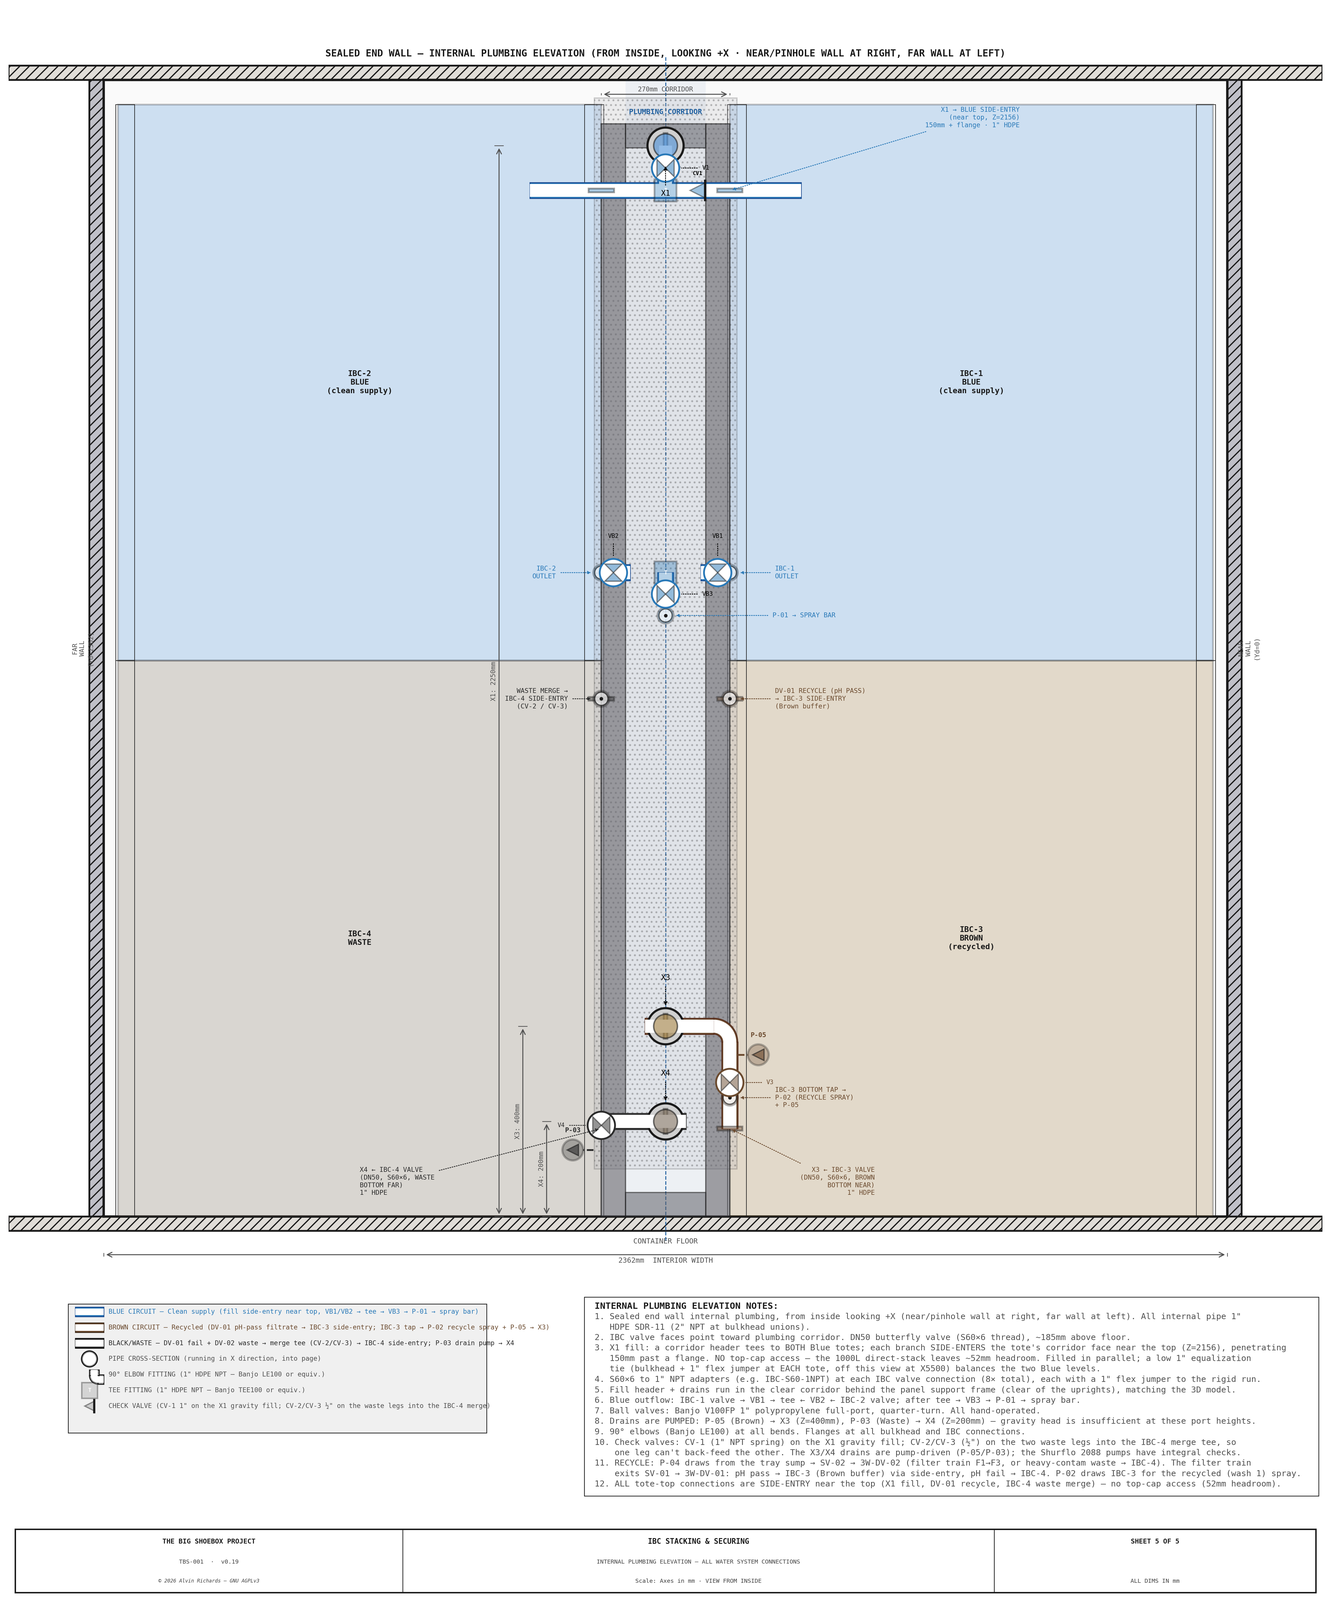
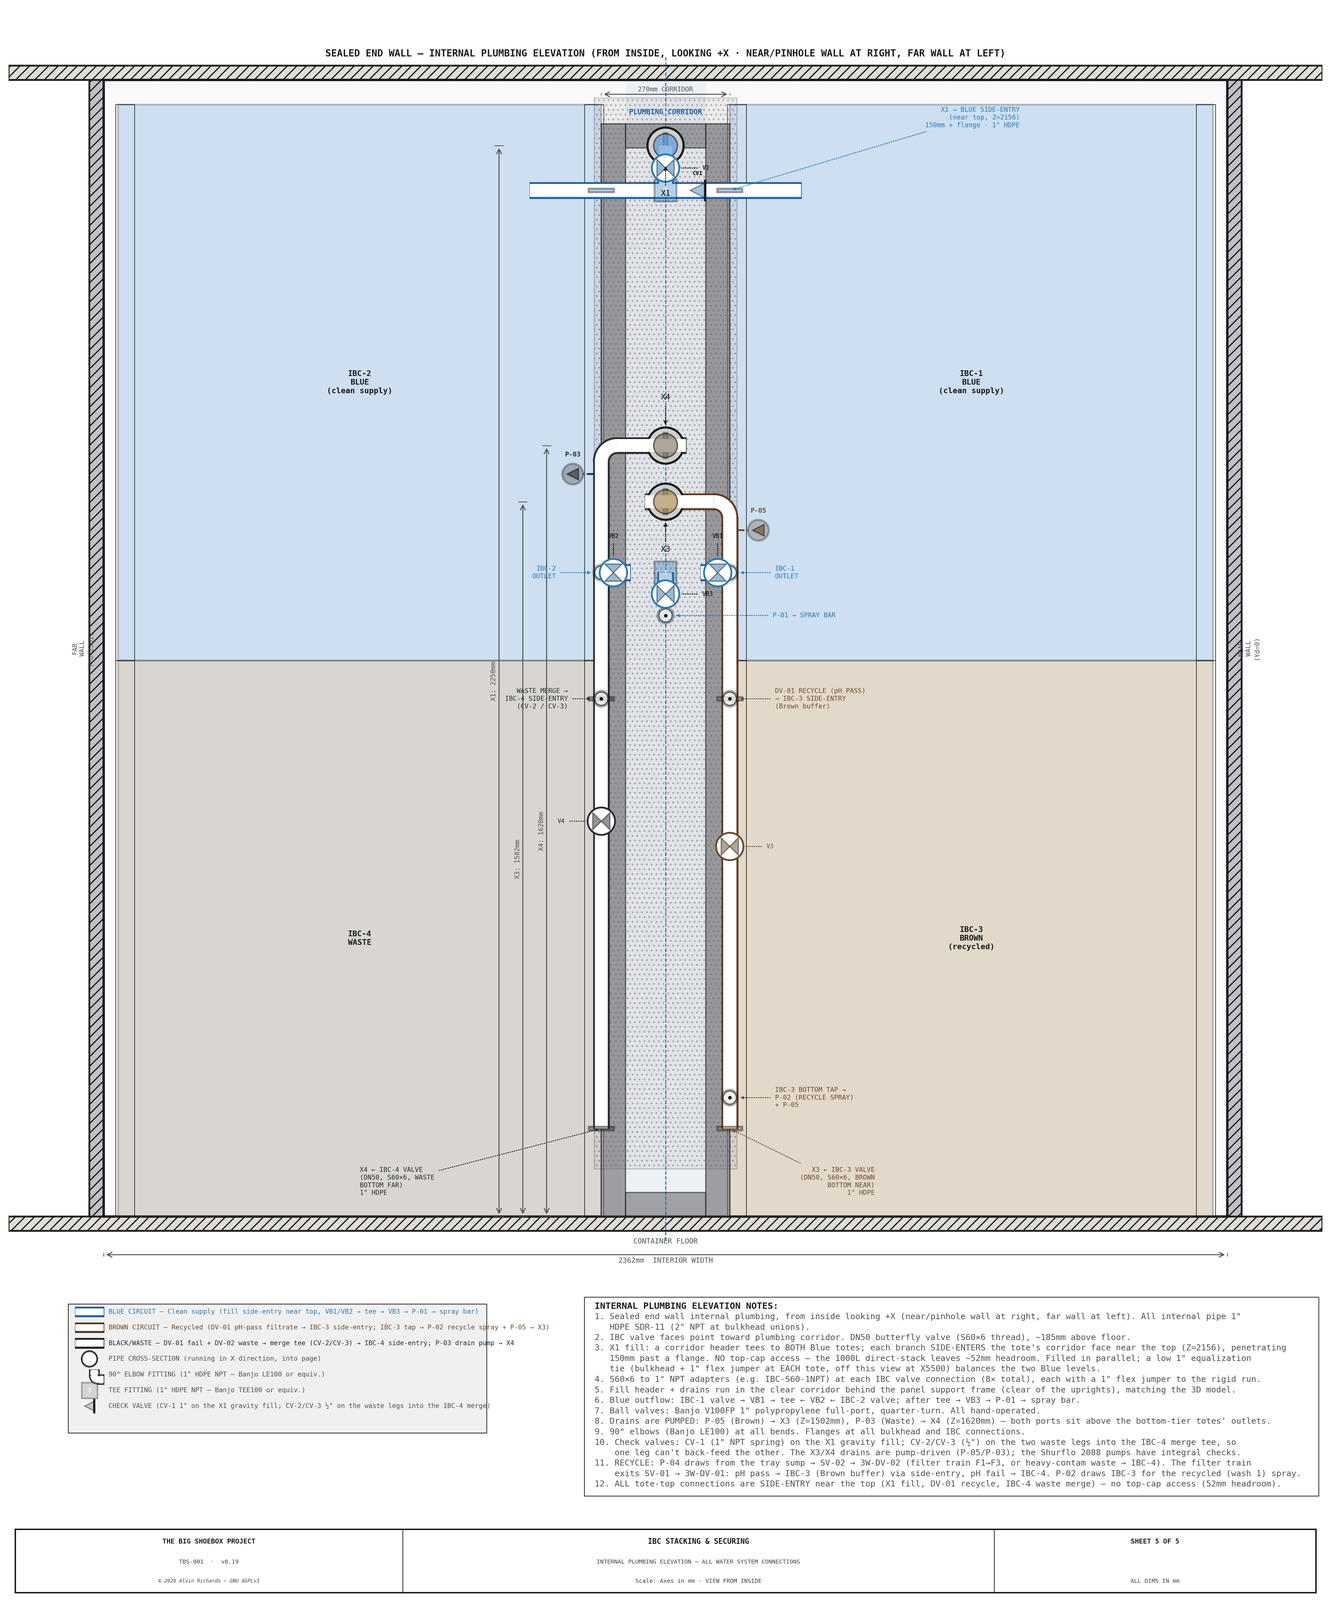
End-wall port heights single-sourced: EXT_DRAIN_3_H/4_H = Z1502/Z1620 (was a stale Z400/Z200); corridor model builds X1/X3/X4 from them; IBC-stacking sheets 3-5 redrawn

Changed region(s): [[0.4056, 0.2498, 0.5929, 0.7182]]

diff --git a/src/generators/generate_ibc_stacking_diagram.py b/src/generators/generate_ibc_stacking_diagram.py
@@ -400,9 +400,7 @@ def sheet2():
 #
 # View from outside the container, looking at the sealed end wall.
 # Shows 3 ports stacked vertically on the container centerline:
-#   Top:    Fill Blue IBC-1 (2250mm)
-#           Drain Brown IBC-3 (400mm)
-#   Bottom: Drain Waste IBC-4 (200mm)
+#   Fill Blue IBC-1 (EXT_FILL_1_H), Drain Waste IBC-4 (EXT_DRAIN_4_H), Drain Brown IBC-3 (EXT_DRAIN_3_H)
 # Reinforcing plate behind ports, camlock fittings, height dimensions.
 # ═══════════════════════════════════════════════════════════════════════════════
 def sheet3():
@@ -956,7 +954,7 @@ def sheet4():
     far_tote_c  = IBC_FAR_Y + IBC_D / 2        # 1824 — tote center (fill drop)
 
     # ── X4: IBC-4 (far, Waste) → bulkhead (lowest, drawn first) ───────────
-    # X4 (Z=200) is the lowest pipe. Drawn first so X3 covers it in corridor.
+    # X4 drawn first so X3 covers it in the corridor.
     draw_pipe_path(ax,
                    [drain_x, drain_x, bh_x],
                    [far_ibc_conn_yd, panel_yd, panel_yd],
@@ -970,7 +968,7 @@ def sheet4():
            "X4 ← IBC-4\n(DRAIN, WASTE)\n1\" HDPE",
            fs=5.5, color=C_PIPE_BLACK, ha="right", font=FONT)
     # ── X3: IBC-3 (near, Brown) → bulkhead (above X4) ──────────────────────
-    # X3 (Z=400) sits above X4 (Z=200). Covers X4 in the corridor run.
+    # X3 covers X4 in the corridor run.
     draw_pipe_path(ax,
                    [drain_x, drain_x, bh_x],
                    [near_ibc_conn_yd, panel_yd, panel_yd],
@@ -1361,10 +1359,10 @@ def sheet5():
     bh_outer_r = 38   # camlock/union outer visual radius
 
     # tdir = leader direction for the tag: +1 above the circle, -1 below.
-    # X1 routes DOWN (the "PLUMBING CORRIDOR" label sits just above it); X3/X4 route up.
+    # X1 routes DOWN (the "PLUMBING CORRIDOR" label sits just above it); X3 (under X4) down, X4 up.
     ports = [
         ("X1", EXT_FILL_1_H, C_BLUE_IBC,   "FILL → IBC-1 (BLUE, TOP NEAR)", -1),
-        ("X3", EXT_DRAIN_3_H, C_BROWN_IBC, "DRAIN ← IBC-3 (BROWN, BOTTOM NEAR)", +1),
+        ("X3", EXT_DRAIN_3_H, C_BROWN_IBC, "DRAIN ← IBC-3 (BROWN, BOTTOM NEAR)", -1 if EXT_DRAIN_3_H < EXT_DRAIN_4_H else +1),
         ("X4", EXT_DRAIN_4_H, C_WASTE_IBC, "DRAIN ← IBC-4 (WASTE, BOTTOM FAR)", +1),
     ]
 
@@ -1459,8 +1457,7 @@ def sheet5():
             color=C_PIPE_BROWN, lw=1.5, ls="--", zorder=7)
 
     # ── X4: IBC-4 (far, bottom) → Bulkhead — WASTE drain ────────────────────
-    # NOTE: X4 at Z=200mm limits gravity drain — P-03 waste pump evacuates
-    # the residual ~120L below X4 height.
+    # X4 sits above the IBC-4 outlet, so P-03 pumps the whole drain.
     d4_yd = far_col_l  # corridor-facing edge of far IBC
     # L-shaped path: vertical rise → 90° elbow → horizontal to bulkhead
     draw_pipe_path(ax,
@@ -1694,7 +1691,7 @@ def sheet5():
         "5. Fill header + drains run in the clear corridor behind the panel support frame (clear of the uprights), matching the 3D model.",
         "6. Blue outflow: IBC-1 valve → VB1 → tee ← VB2 ← IBC-2 valve; after tee → VB3 → P-01 → spray bar.",
         "7. Ball valves: Banjo V100FP 1\" polypropylene full-port, quarter-turn. All hand-operated.",
-        "8. Drains are PUMPED: P-05 (Brown) → X3 (Z=400mm), P-03 (Waste) → X4 (Z=200mm) — gravity head is insufficient at these port heights.",
+        f"8. Drains are PUMPED: P-05 (Brown) → X3 (Z={EXT_DRAIN_3_H}mm), P-03 (Waste) → X4 (Z={EXT_DRAIN_4_H}mm) — both ports sit above the bottom-tier totes' outlets.",
         "9. 90° elbows (Banjo LE100) at all bends. Flanges at all bulkhead and IBC connections.",
         "10. Check valves: CV-1 (1\" NPT spring) on the X1 gravity fill; CV-2/CV-3 (½\") on the two waste legs into the IBC-4 merge tee, so",
         "    one leg can't back-feed the other. The X3/X4 drains are pump-driven (P-05/P-03); the Shurflo 2088 pumps have integral checks.",

diff --git a/src/models/generate_corridor_water_panel.py b/src/models/generate_corridor_water_panel.py
@@ -18,7 +18,7 @@ sys.path.insert(0, _HERE)
 import generate_sketchup_model as ov
 import generate_ibc_model as ib                 # owns ibc_stack() (Phase 1)
 import tbs_draw as draw                          # shared drawing/material primitives
-from tbs_constants import PUMP_YD_SPAN
+from tbs_constants import PUMP_YD_SPAN, EXT_FILL_1_H, EXT_DRAIN_3_H, EXT_DRAIN_4_H
 
 # ── deep-box frame geometry (from the fork; one source) ──
 S       = ov.IBC_FRAME_RHS               # 50.8×50.8 RHS (2×2×0.120in)
@@ -347,7 +347,7 @@ def tote_restraint():
 # generator derives the same piece sizes (single source; it can't drift from this model).
 SHIRT_Z0    = 325    # pump-shirt bottom Z (raised to clear the brown P-05 inlet elbow at z298-318)
 SPINE_Z0    = 280    # drain-riser spine bottom Z (clears the low waste pickup z247-268)
-X1_TEE_X, X1_TEE_Z = 5500, 2250                     # X1 fill tee — ON the spine top, centered in its thickness (X1_TEE_Y below)
+X1_TEE_X, X1_TEE_Z = 5500, EXT_FILL_1_H                    # X1 fill tee — ON the spine top, centered in its thickness (X1_TEE_Y below)
 SPINE_Z1    = X1_TEE_Z - ov.PUMP_PIPE_OD / 2       # 2239.5 — drain-riser spine top: the X1 fill run + tee REST on its top edge
 SPINE_X_END = 5780   # drain-riser spine far X — extended ~220mm toward the sealed end wall (X5893) so the two end-wall port runs (P-05→X3, P-03→X4) + their X5763 drops get a ply clip surface; still clears the wall
 X3_CROSS_X = SPINE_X_END - 100   # P-05→X3 crosses the spine here (100mm in from its X-edge), then runs the near-face clip lane to X3
@@ -1197,7 +1197,9 @@ def drains_ports(sump_on_skid=False):
          draw.C_IBC_BROWN)
     port_jumper(p, "P-05 suction jumper", [p5i, (PXC, BV02_YD, z05), (rx, BV02_YD, z05), (rx, BV02_YD, zloop)])
     p.append(ball_valve("BV-02 (P-05 suction)", rx, BV02_YD, z05 - 85, "z", hdir="+y", rot_deg=45))   # whole valve rotated 45° so the handle swings into the corridor on the −X+Yd diagonal, matching BV-01/BV-03/BV-06
-    p.append(draw.ruby_cylinder("X3 Brown drain port (end wall)", ew - 60, SPINE_RISER_YD, p5o[2], 22, 60, color=draw.C_STEEL, axis="x"))
+    if abs(p5o[2] - EXT_DRAIN_3_H) > 0.5:
+        raise ValueError(f"X3 port Z{EXT_DRAIN_3_H} must equal the P-05 discharge Z{p5o[2]} (the X3 run is straight)")
+    p.append(draw.ruby_cylinder("X3 Brown drain port (end wall)", ew - 60, SPINE_RISER_YD, EXT_DRAIN_3_H, 22, 60, color=draw.C_STEEL, axis="x"))
     # P-05 OUT → +Yd stub → step onto a clear back lane (between the spine +Yd face 1224 and the far
     # upright 1266; +Yd of the pump body 1231) — the −Yd step is done in the OPEN −X of the shirt, NOT in
     # the chase — then STRAIGHT +X through the shirt + panel (round holes) and behind the panel all the way
@@ -1235,9 +1237,9 @@ def drains_ports(sump_on_skid=False):
                     (PXC, BV02_YD, z03), p3i])                      # −X + short +Yd stub into the IN port
     port_jumper(p, "P-03 suction jumper", [p3i, (PXC, BV02_YD, z03), (rx6, BV02_YD, z03), (rx6, BV02_YD, turn6)])
     p.append(ball_valve("BV-06 (P-03 suction)", rx6, BV02_YD, z03 - 110, "z", hdir="+y", rot_deg=45))   # whole valve rotated 45° so the handle swings into the corridor on the −X+Yd diagonal, matching BV-01/BV-03
-    p.append(draw.ruby_cylinder("X4 Waste drain port (end wall)", ew - 60, COL_R, 1620, 22, 60, color=draw.C_STEEL, axis="x"))
+    p.append(draw.ruby_cylinder("X4 Waste drain port (end wall)", ew - 60, COL_R, EXT_DRAIN_4_H, 22, 60, color=draw.C_STEEL, axis="x"))
     _p03 = [p3o, (PXC, PORT_TURN_YD_OUT, p3o[2]), (5090, PORT_TURN_YD_OUT, p3o[2]), (5090, COL_R, p3o[2]),
-            (ew - 130, COL_R, p3o[2]), (ew - 130, COL_R, 1620), (ew - 60, COL_R, 1620)]
+            (ew - 130, COL_R, p3o[2]), (ew - 130, COL_R, EXT_DRAIN_4_H), (ew - 60, COL_R, EXT_DRAIN_4_H)]
     pipe("P-03 -> X4 end-wall port", _p03, draw.C_PIPE_WASTE)   # OUT turns one elbow out of the port
     port_jumper(p, "P-03 discharge jumper", _p03)
     return "\n".join(p)

diff --git a/src/generators/tbs_constants.py b/src/generators/tbs_constants.py
@@ -1435,8 +1435,8 @@ SPRAY_BAR_SLIT_W     = 30          # walkway slit width for pole passage (mm)
 # X1 fill tees internally to BOTH Blue totes (parallel fill, no X2 port, no cross-connect)
 EXT_PANEL_YD = C_WID // 2   # = 1181mm — panel centered on container width
 EXT_FILL_1_H = 2250    # X1: Blue fill port height (mm) — feeds the Blue side-entry T near the top of both top-tier totes (~Z2150), gravity feed; gravity-linked across the corridor
-EXT_DRAIN_3_H = 400    # X3: drain Brown IBC-3 port height (mm) — bottom tier near
-EXT_DRAIN_4_H = 200    # X4: drain Waste IBC-4 port height (mm) — bottom tier far
+EXT_DRAIN_3_H = 1502   # X3: Brown drain port height (mm) — P-05 discharge level; the run goes straight out along the spine near face to the wall
+EXT_DRAIN_4_H = 1620   # X4: Waste drain port height (mm) — P-03 discharge drops to it at the end wall, on the spine far face
 # Legacy aliases for downstream code
 EXT_FILL_H   = EXT_FILL_1_H
 EXT_FILL_YD  = EXT_PANEL_YD

diff --git a/RELEASE.md b/RELEASE.md
@@ -26,7 +26,7 @@ is no separate publish step to run afterward.
 
 ## [Unreleased]
 
-- **2D water sheets brought back to the 3D.** ibc-stacking Sheet 5 drew the retired routing (filter return into IBC-2); it now shows DV-01 recycle → IBC-3 on a pH pass and the waste merge into IBC-4 through CV-2/CV-3, with the legend and notes rewritten. Sheet 4 no longer lists P-04 as a corridor pump. water-system Sheet 1 labels the 1" equalization tie and shows its flex jumpers. On the pinhole-wall elevation, P-04's ports are drawn to the datasheet reach and its suction enters at port height. The SV-02 marker now sits on its pipe: `PWP_SV02_Z` was the valve's base while both sheets read it as the center, so it is now the true center and the 3D derives the base from it (same geometry). The bridge-arc crossing is replaced by the skill's flush break. Labels are at the 4.0 legibility floor and moved off the pipes they named. The 3D F1 label read "50um"; it is a 5-micron cartridge. Walkway E-E listed IBC-3 → P-02 three times because its capture saw runs the builder constructs and then drops; it now keeps only runs that reach the model. Its tags no longer hide under the pipes. The four panel sheets (corridor front elevation, spine views A/B, pinhole panel) now take their routes, valve centers, clips and flex jumpers from an in-process build of water.skp, so they can't drift from the model. The spine views drop the retired DV-01 Blue-recycle riser, show X1 as a tee, and add CV-2/CV-3. The pinhole panel draws the extended board's low runs, clips and corner notches. Electrical Sheet 4's pump boxes use the datasheet envelope. Two 3D fixes came out of the 2D pass: the X4 waste pickup had a diagonal leg (an 18.5mm Yd jog spread across a 1.4m rise), now squared onto the spine lane; and the ACC-02 → BV-05 hop over the P-04 suction riser is derived from the riser's X (the port change had moved the riser into it). The spine's far (+Yd) face is now an accepted standoff exception (`SPINE_FAR_FLUSH_OK`), no longer pending review: its nine clips (P-05 → X3, P-03 → X4 and the X4 drop) sit on 6.5mm shims because the lane is fixed by the pump-port turn; the plumbing report says so. X3 moved so its line is clamped: after crossing the spine, P-05 → X3 used to drop onto a Yd1109 lane 97mm off the spine with no support. It now turns onto the spine's near-face clip lane (an 18mm block, one new P-clip) and runs straight to the end wall, so X3 sits at Yd1177.5 / Z1502 (was Yd1109 / Z1700), with one riser and two elbows fewer (`X3_CROSS_X`). Spine View A draws the new tail. `check_pipe_supports` now also fails any non-axis-aligned pipe leg (the spray-bar feed hoses and one battery cable are ratcheted as legitimate diagonals). Review fixes: ACC-01 and ACC-02 draw their IN/OUT port stubs so every run lands on a port, P-01 → ACC-01 IN gets its 90° elbow, and the TAP-01 riser elbows into its spout; its isolation valve is labeled BV-04 (BV-06 is the P-03 suction valve) on the elevation and in chemistry-prep-shelves.md. Walkway E-E draws the four pumps and ACC-01 solid, so a unit's suction and discharge runs (opposite-Yd ports on one Z, collapsed by the projection) read as meeting on the unit rather than at a missing elbow.
+- **2D water sheets brought back to the 3D.** ibc-stacking Sheet 5 drew the retired routing (filter return into IBC-2); it now shows DV-01 recycle → IBC-3 on a pH pass and the waste merge into IBC-4 through CV-2/CV-3, with the legend and notes rewritten. Sheet 4 no longer lists P-04 as a corridor pump. water-system Sheet 1 labels the 1" equalization tie and shows its flex jumpers. On the pinhole-wall elevation, P-04's ports are drawn to the datasheet reach and its suction enters at port height. The SV-02 marker now sits on its pipe: `PWP_SV02_Z` was the valve's base while both sheets read it as the center, so it is now the true center and the 3D derives the base from it (same geometry). The bridge-arc crossing is replaced by the skill's flush break. Labels are at the 4.0 legibility floor and moved off the pipes they named. The 3D F1 label read "50um"; it is a 5-micron cartridge. Walkway E-E listed IBC-3 → P-02 three times because its capture saw runs the builder constructs and then drops; it now keeps only runs that reach the model. Its tags no longer hide under the pipes. The four panel sheets (corridor front elevation, spine views A/B, pinhole panel) now take their routes, valve centers, clips and flex jumpers from an in-process build of water.skp, so they can't drift from the model. The spine views drop the retired DV-01 Blue-recycle riser, show X1 as a tee, and add CV-2/CV-3. The pinhole panel draws the extended board's low runs, clips and corner notches. Electrical Sheet 4's pump boxes use the datasheet envelope. Two 3D fixes came out of the 2D pass: the X4 waste pickup had a diagonal leg (an 18.5mm Yd jog spread across a 1.4m rise), now squared onto the spine lane; and the ACC-02 → BV-05 hop over the P-04 suction riser is derived from the riser's X (the port change had moved the riser into it). The spine's far (+Yd) face is now an accepted standoff exception (`SPINE_FAR_FLUSH_OK`), no longer pending review: its nine clips (P-05 → X3, P-03 → X4 and the X4 drop) sit on 6.5mm shims because the lane is fixed by the pump-port turn; the plumbing report says so. X3 moved so its line is clamped: after crossing the spine, P-05 → X3 used to drop onto a Yd1109 lane 97mm off the spine with no support. It now turns onto the spine's near-face clip lane (an 18mm block, one new P-clip) and runs straight to the end wall, so X3 sits at Yd1177.5 / Z1502 (was Yd1109 / Z1700), with one riser and two elbows fewer (`X3_CROSS_X`). Spine View A draws the new tail. The end-wall port heights are now single-sourced: `EXT_DRAIN_3_H` / `EXT_DRAIN_4_H` had stayed at an old Z400 / Z200 the 3D never used, so IBC-stacking Sheets 3–5 drew X3/X4 near the floor. They are now Z1502 / Z1620, and the corridor model builds the X3/X4 (and X1, `EXT_FILL_1_H`) ports from them, refusing an X3 height off the straight P-05 run. `check_pipe_supports` now also fails any non-axis-aligned pipe leg (the spray-bar feed hoses and one battery cable are ratcheted as legitimate diagonals). Review fixes: ACC-01 and ACC-02 draw their IN/OUT port stubs so every run lands on a port, P-01 → ACC-01 IN gets its 90° elbow, and the TAP-01 riser elbows into its spout; its isolation valve is labeled BV-04 (BV-06 is the P-03 suction valve) on the elevation and in chemistry-prep-shelves.md. Walkway E-E draws the four pumps and ACC-01 solid, so a unit's suction and discharge runs (opposite-Yd ports on one Z, collapsed by the projection) read as meeting on the unit rather than at a missing elbow.
 - **Schematics and plans authored in mm.** Water System Sheet 2 (equipment plan) had the container squeezed into a 12×5 canvas with unequal X/Y factors (a ~4% stretch) and labeled with the exterior size; it is now a 1:1 mm plan from the constants, which also corrects TAP-01's position, the corridor panel (now from the 3D rear panel + pump column), the spray bar (single-feed beam), the tray panel size, and adds the pinhole-wall filter skid. The not-to-scale schematics drawn in figure inches (Water Sheet 1, Electrical Sheet 1 and View C, Ventilation Sheet 1) are re-authored in sheet mm with no visual change. Water Sheet 1's filter labels now read 5µm / KDF-55 / GAC (F1 had read 50µ, F2 5µ). The *diagrams authored in mm* gate also catches ratio-form scale constants and axes whose limits are the figure size in inches; CLAUDE.md records that schematics use sheet mm.
 - **water.skp review fixes.** The drain-riser spine now carries the X1 fill: the X1 tee and its inlet run are centered on the spine's thickness and rest on its top edge (`SPINE_Z1` = X1_TEE_Z − pipe radius = Z2239.5), notched (2mm clearance) for the full X1 tee fitting (its run body, +X branch body and socket cuff) and for the in-line X1 check valve; the notch sizes come from the same `TEE_*` / `CV_*` constants the fittings are built from. The spine is a profiled prism (`spine_profile()`, also drawn on Spine Views A/B); it loses the old X1 hole and its cut-sheet blank is 680 × 1960mm. `ruby_prism` gains round holes on the Y axis. The spray-bar hose no longer leaves the open top of the BV-05b riser: an elbow at the riser top turns +Yd off the wall and the coiled hose barbs into its outlet. The Circuit C feed drop and pump bus behind the corridor panel ran straight through the X4 waste pickup where it turns through the panel at Z1700; the cable now dog-legs +Yd around it (between the pipe and the spine face), with no pipe or ply hole moved. `check_interference` missed it because its crossing pass only compared arrow-named runs and classified the `Cct C bus` as neither pipe nor solid: every `Cct …` conductor is now a pipe, and arrow-less pipe runs (bottom pickups, buses, branches) are crossing-checked too, an overlap at one of their ends counting as a tee onto the other line. The stricter check then caught a clash in electrical.skp that dated from the C1/C2 fuse split: fuse E sat directly behind the battery − 2/0 riser, so the Cct E feed ran inside it. The riser lane (`EP_RISE_X_M`) moves past fuse F to under the PV disconnect's center, whose two PV feed legs now land ±24mm either side of center (`PV_LEG_DX`, was ±18) so the riser passes between them; the Cct E feed keeps its route and lands 30mm along the inverter top, clear of the Battery + drop. In electrical.skp the PV interior MC4 stubs, pigtails, ± buses and the PV array disconnect (surface-mounted on the interior access panel) are their own component on the Power Core tag (the PV feeds no longer stop in mid-air when the External Panel tag is off), and the Power Core / External Panel scenes drop the chem shelf, the fan-load ghosts and the transport-stay plates (new Context Loads tag) plus the ceiling cable-trunk saddle clips (their `Clips` tag was never registered, so they had sat on Layer0 in every scene). `ruby_clip_run` no longer drops a cable clip onto an elbow: a clip that would land within one clip-width of a bend slides back along its leg (eight such clips in electrical.skp, e.g. the E-stop link clip 7mm under its top bend).
 - **Pipe elbows show both joint lines; pump ports drawn to the datasheet; flex jumpers on the Blue equalization tie.** Every swept elbow was built along an inscribed 8-chord arc, so its far end face sat square to the last chord, not to the next pipe. That end ring was tilted ~5.6°, half of it buried in the adjoining pipe, and the joint line vanished at most elbow exits. Elbows now sweep the circumscribed polygon (tangent at both ends), so both rings sit square; this lives in the shared drawing helper, so every model with elbows picks it up on its next re-send. The corridor and skid pumps' port stubs now match the [Shurflo 2088-554-144 spec sheet](https://assets.freshwatersystems.com/images/skvxfhchi3wsmu9p29is/2088-554-144.pdf) (1/2"-14 NPSM male, 127mm across the port tips = `PUMP_YD_SPAN`): 13.5mm stubs, was 30mm. A ½" FNPT×slip adapter leg carries each run to its turn elbow, so the side-board riser planes are unchanged. The 1" IBC-1↔IBC-2 equalization tie was the only rigid tote-to-tote run; it now lands on each tote through a 1" flex jumper like every other tote connection (barbs M+F 8→10, SS clamps 2→3 10-packs; water +$28). The skid's tray-sump suction clip moved from just off the ply edge (X2760) onto the panel (X2830).
